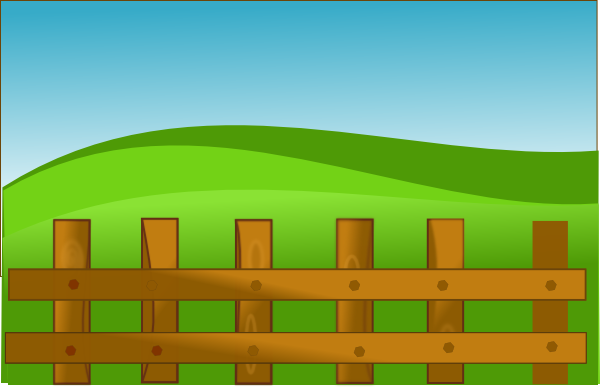
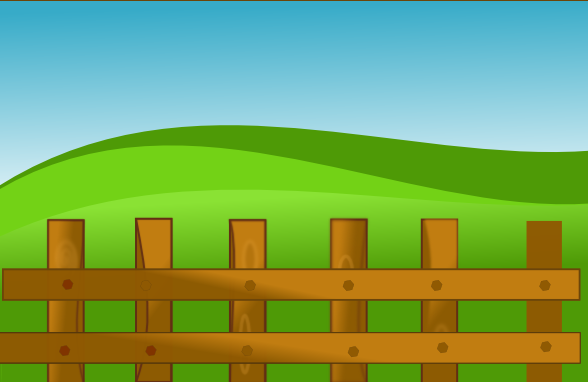
fixing an image

diff --git a/styles/main.css b/styles/main.css
@@ -7,7 +7,7 @@ html, body {
 
 body {
     background: url(../images/bg-2.png);
-    background-size: auto 100%;
+    background-size: cover;
     background-position: center bottom;
 }
 
